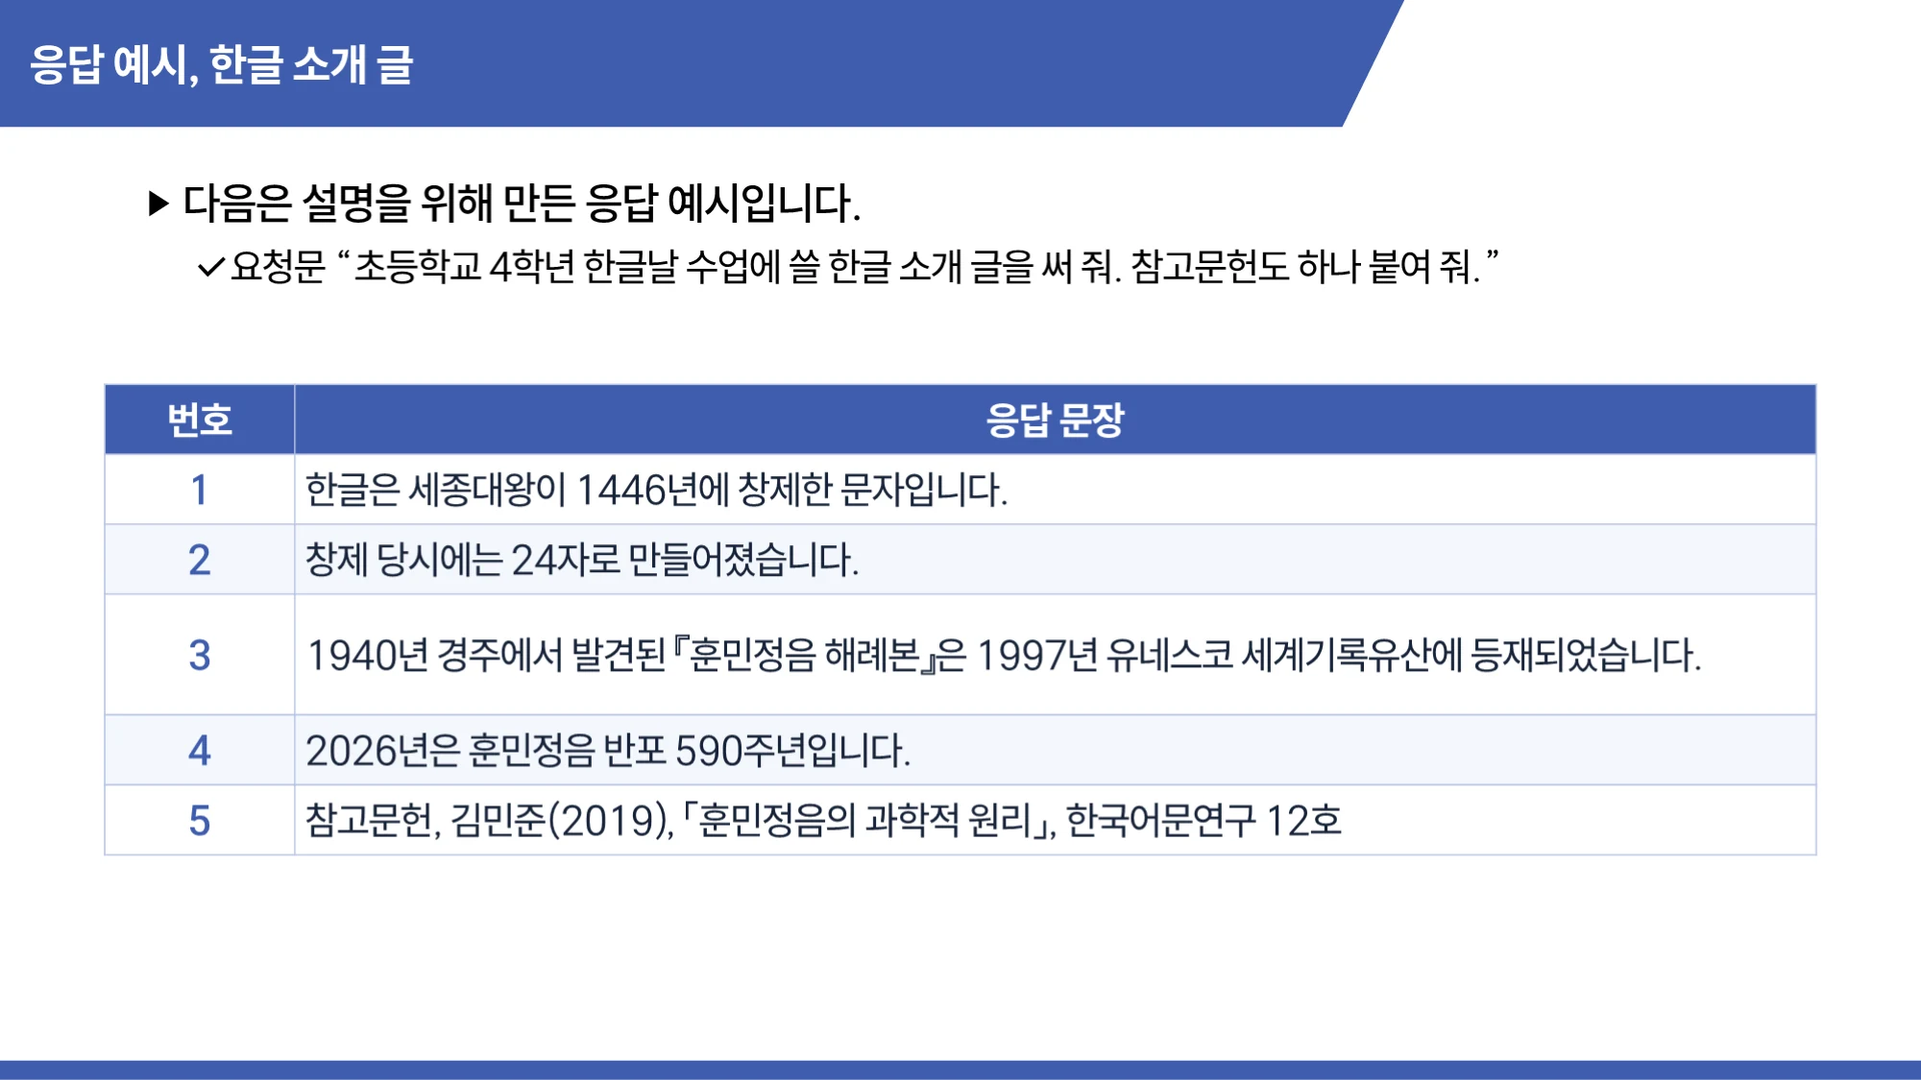
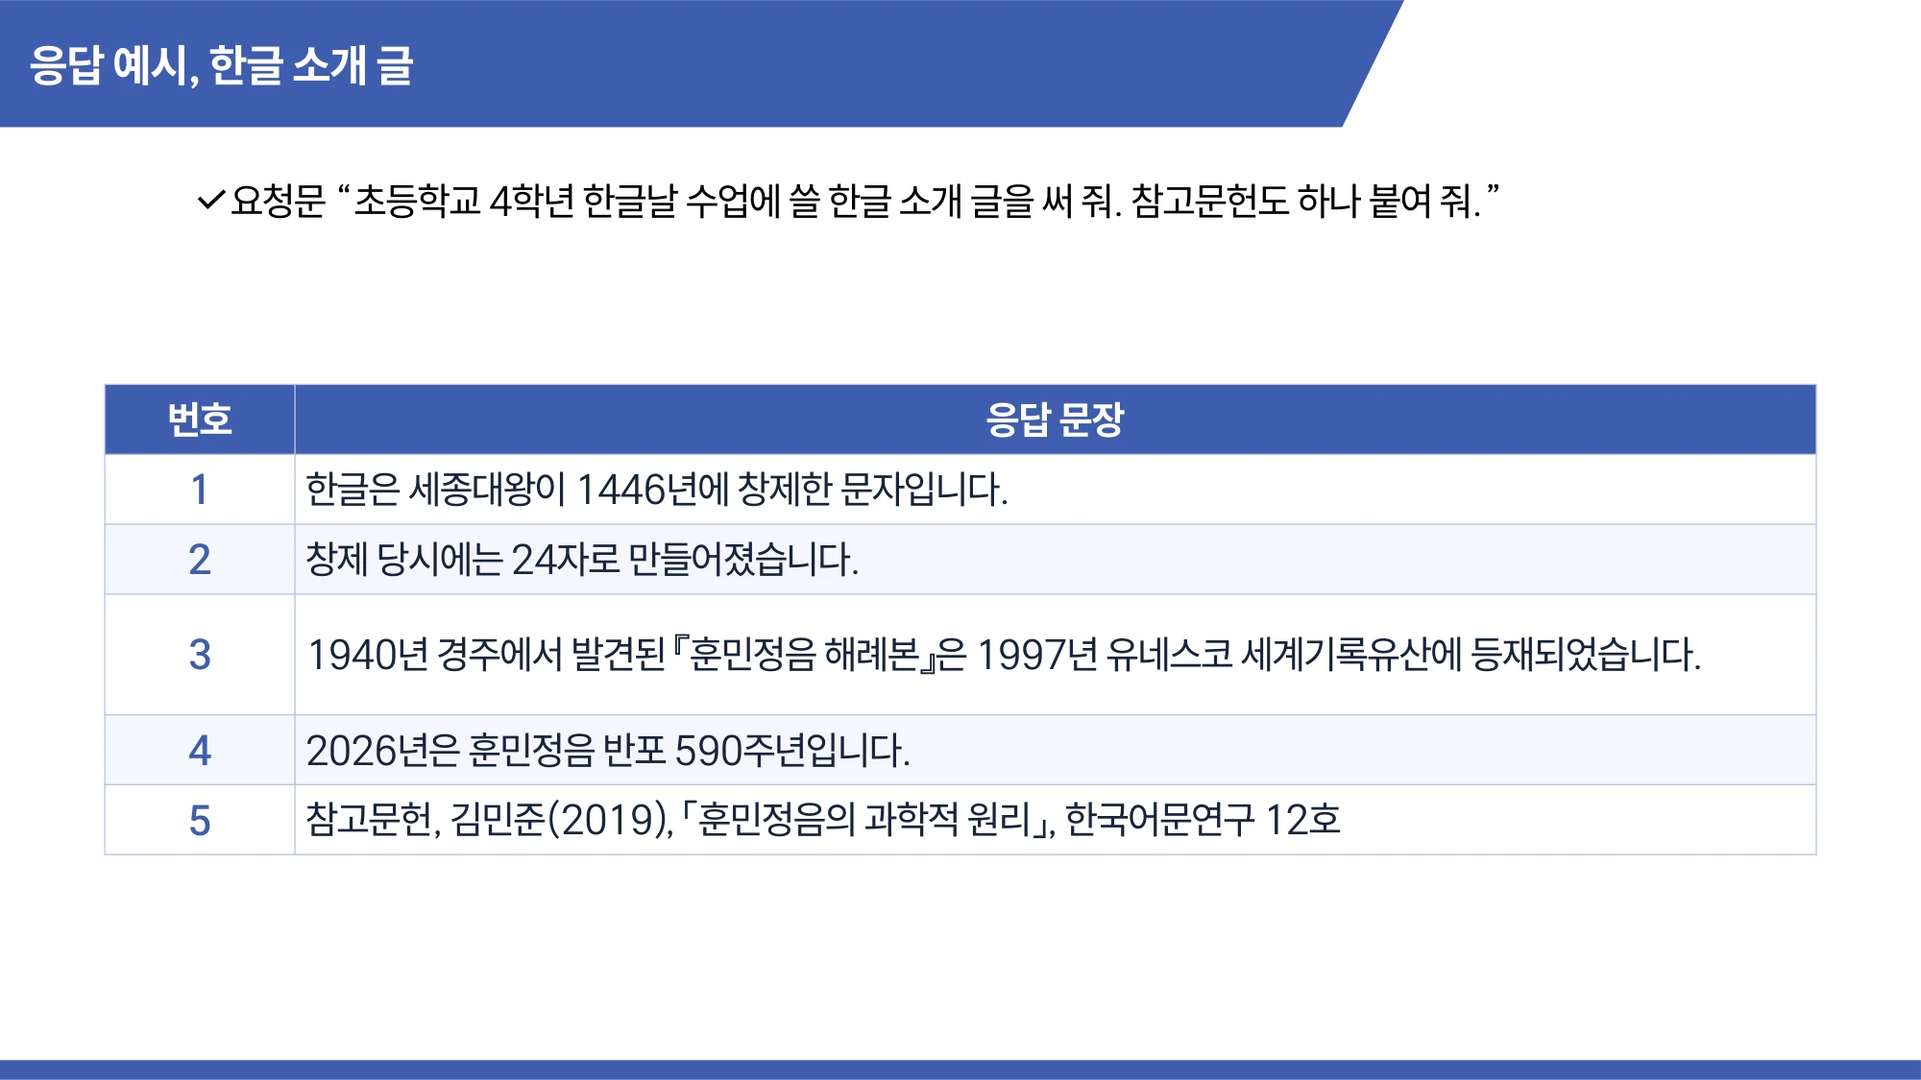
마이크로디그리 과정1 6주차 오후: 뉴스 영상 두 편과 개별 실습 두 개 추가
- 법원행정처 설문(SBS 뉴스), 수행평가 AI 활용 관리 방안(KBS News) 영상 슬라이드
- 개별 실습 4 출처를 사이트 밖에서 확인하기(s62Lateral), 개별 실습 5 내 AI 사용 기록 쓰기(s62Cite)
- 5쪽의 예시 안내 문장 삭제, 기존 체험의 기준 번호 이동(72쪽)

Claude-Session: https://claude.ai/code/session_01Kjf2HXpHHBjNcSH3nFxr1s

diff --git a/lectures/microdegree1/6-2/index.html b/lectures/microdegree1/6-2/index.html
@@ -12,11 +12,11 @@
                             <path d="M21 12.79A9 9 0 1 1 11.21 3 7 7 0 0 0 21 12.79z" stroke="currentColor" stroke-width="2" stroke-linecap="round" stroke-linejoin="round" />
                         </svg>
                     </button><button id="mobileMenuToggle" class="mobile-menu-toggle" aria-label="메뉴 열기" aria-expanded="false">☰</button></div></div></header>
-<main class="ce-viewer md-viewer" data-chapter="6-2" data-course="microdegree1" data-course-title="마이크로디그리 과정1" data-version="20261113c" id="main-content" tabindex="-1"><div class="ce-heading"><div><a href="/lectures/">강의자료</a> <span aria-hidden="true">›</span> <a href="/lectures/microdegree1/">마이크로디그리 과정1</a><h1>6주차 오후 생성형 인공지능 결과 해석과 검증</h1></div><a href="/lectures/microdegree1/">전체 강의 보기</a></div>
+<main class="ce-viewer md-viewer" data-chapter="6-2" data-course="microdegree1" data-course-title="마이크로디그리 과정1" data-version="20261114a" id="main-content" tabindex="-1"><div class="ce-heading"><div><a href="/lectures/">강의자료</a> <span aria-hidden="true">›</span> <a href="/lectures/microdegree1/">마이크로디그리 과정1</a><h1>6주차 오후 생성형 인공지능 결과 해석과 검증</h1></div><a href="/lectures/microdegree1/">전체 강의 보기</a></div>
 <svg width="0" height="0" style="position:absolute" aria-hidden="true"><defs><symbol id="ce-icon-chevron-left" viewBox="0 0 24 24"><path d="m15 18-6-6 6-6" /></symbol><symbol id="ce-icon-chevron-right" viewBox="0 0 24 24"><path d="m9 18 6-6-6-6" /></symbol><symbol id="ce-icon-list-filter" viewBox="0 0 24 24"><path d="M2 5h20" /><path d="M6 12h12" /><path d="M9 19h6" /></symbol><symbol id="ce-icon-printer" viewBox="0 0 24 24"><path d="M6 18H4a2 2 0 0 1-2-2v-5a2 2 0 0 1 2-2h16a2 2 0 0 1 2 2v5a2 2 0 0 1-2 2h-2" /><path d="M6 9V3a1 1 0 0 1 1-1h10a1 1 0 0 1 1 1v6" /><rect x="6" y="14" width="12" height="8" rx="1" /></symbol><symbol id="ce-icon-maximize" viewBox="0 0 24 24"><path d="M8 3H5a2 2 0 0 0-2 2v3" /><path d="M21 8V5a2 2 0 0 0-2-2h-3" /><path d="M3 16v3a2 2 0 0 0 2 2h3" /><path d="M16 21h3a2 2 0 0 0 2-2v-3" /></symbol><symbol id="ce-icon-minimize" viewBox="0 0 24 24"><path d="M8 3v3a2 2 0 0 1-2 2H3" /><path d="M21 8h-3a2 2 0 0 1-2-2V3" /><path d="M3 16h3a2 2 0 0 1 2 2v3" /><path d="M16 21v-3a2 2 0 0 1 2-2h3" /></symbol><symbol id="ce-icon-zoom-in" viewBox="0 0 24 24"><circle cx="11" cy="11" r="8" /><line x1="21" x2="16.65" y1="21" y2="16.65" /><line x1="11" x2="11" y1="8" y2="14" /><line x1="8" x2="14" y1="11" y2="11" /></symbol><symbol id="ce-icon-zoom-out" viewBox="0 0 24 24"><circle cx="11" cy="11" r="8" /><line x1="21" x2="16.65" y1="21" y2="16.65" /><line x1="8" x2="14" y1="11" y2="11" /></symbol><symbol id="ce-icon-x" viewBox="0 0 24 24"><path d="M18 6 6 18" /><path d="m6 6 12 12" /></symbol><symbol id="ce-icon-link" viewBox="0 0 24 24"><path d="M10 13a5 5 0 0 0 7.54.54l3-3a5 5 0 0 0-7.07-7.07l-1.72 1.71" /><path d="M14 11a5 5 0 0 0-7.54-.54l-3 3a5 5 0 0 0 7.07 7.07l1.71-1.71" /></symbol><symbol id="ce-icon-hash" viewBox="0 0 24 24"><line x1="4" x2="20" y1="9" y2="9" /><line x1="4" x2="20" y1="15" y2="15" /><line x1="10" x2="8" y1="3" y2="21" /><line x1="16" x2="14" y1="3" y2="21" /></symbol><symbol id="ce-icon-play" viewBox="0 0 24 24"><path d="M5 5a2 2 0 0 1 3.008-1.728l11.997 6.998a2 2 0 0 1 .003 3.458l-12 7A2 2 0 0 1 5 19z" /></symbol></defs></svg><div class="ce-stage" id="ce-stage"><div class="ce-viewport"><div class="ce-canvas"><img class="ce-slide-image" id="ce-image" width="2000" height="1125" alt="강의 슬라이드" aria-describedby="ce-slide-text" src="/images/lectures/microdegree1/6-2/001.webp"><div id="ce-media"></div><section class="ce-lab md-lab" id="ce-lab" hidden aria-label="체험 슬라이드"></section></div></div><div class="ce-toolbar" role="toolbar" aria-label="슬라이드 도구"><button id="ce-prev" type="button" class="ce-glass ce-prev" aria-label="이전 슬라이드" data-tip="이전 슬라이드" ><svg class="ce-icon" viewBox="0 0 24 24" aria-hidden="true" focusable="false"><use href="#ce-icon-chevron-left"></use></svg></button><button id="ce-next" type="button" class="ce-glass ce-next" aria-label="다음 슬라이드" data-tip="다음 슬라이드" ><svg class="ce-icon" viewBox="0 0 24 24" aria-hidden="true" focusable="false"><use href="#ce-icon-chevron-right"></use></svg></button><button id="ce-open-toc" type="button" class="ce-glass " aria-label="목차 검색" data-tip="목차 검색" ><svg class="ce-icon" viewBox="0 0 24 24" aria-hidden="true" focusable="false"><use href="#ce-icon-list-filter"></use></svg></button><button id="ce-open-page" type="button" class="ce-glass " aria-label="페이지 이동" data-tip="페이지 이동" ><svg class="ce-icon" viewBox="0 0 24 24" aria-hidden="true" focusable="false"><use href="#ce-icon-hash"></use></svg></button><button id="ce-open-links" type="button" class="ce-glass " aria-label="관련 링크" data-tip="관련 링크" hidden><svg class="ce-icon" viewBox="0 0 24 24" aria-hidden="true" focusable="false"><use href="#ce-icon-link"></use></svg></button><button id="ce-zoom" type="button" class="ce-glass " aria-label="확대" data-tip="확대" aria-pressed="false"><svg class="ce-icon" viewBox="0 0 24 24" aria-hidden="true" focusable="false"><use href="#ce-icon-zoom-in"></use></svg></button><button id="ce-fullscreen" type="button" class="ce-glass " aria-label="전체 화면" data-tip="전체 화면" aria-keyshortcuts="f"><svg class="ce-icon" viewBox="0 0 24 24" aria-hidden="true" focusable="false"><use href="#ce-icon-maximize"></use></svg></button><button id="ce-print" type="button" class="ce-glass " aria-label="인쇄" data-tip="인쇄" ><svg class="ce-icon" viewBox="0 0 24 24" aria-hidden="true" focusable="false"><use href="#ce-icon-printer"></use></svg></button></div><span class="ce-loading" id="ce-loading">불러오는 중</span></div><p id="ce-status" class="sr-only" aria-live="polite"></p><p id="ce-slide-text" class="sr-only"></p><span id="ce-page-label" class="sr-only"></span><nav class="ce-after" aria-label="이전과 다음 강의"><a href="/lectures/microdegree1/6-1/">← 6주차 오전 공정성과 편향성 및 책임 있는 활용 Part 1</a><a href="/lectures/microdegree1/7-1/">7주차 오전 공정성과 편향성 및 책임 있는 활용 Part 2 →</a></nav>
 <dialog class="ce-dialog" id="ce-dialog"><header><h2>목차 검색</h2><button id="ce-close-toc" type="button" class="ce-glass " aria-label="닫기" data-tip="닫기" data-close><svg class="ce-icon" viewBox="0 0 24 24" aria-hidden="true" focusable="false"><use href="#ce-icon-x"></use></svg></button></header><label for="ce-search">제목 또는 본문으로 찾기</label><input id="ce-search" type="search" placeholder="검색어를 입력하세요"><div class="ce-toc" id="ce-toc"></div></dialog>
-<dialog class="ce-dialog ce-small-dialog" id="ce-page-dialog"><header><h2>페이지 이동</h2><button id="ce-close-page" type="button" class="ce-glass " aria-label="닫기" data-tip="닫기" data-close><svg class="ce-icon" viewBox="0 0 24 24" aria-hidden="true" focusable="false"><use href="#ce-icon-x"></use></svg></button></header><form id="ce-go-page"><label for="ce-page">전체 <span id="ce-total">66</span>쪽</label><input id="ce-page" type="number" min="1" max="66" value="1" required><button class="ce-submit" type="submit">이동</button></form></dialog>
-<dialog class="ce-dialog ce-small-dialog" id="ce-links-dialog"><header><h2>관련 링크</h2><button id="ce-close-links" type="button" class="ce-glass " aria-label="닫기" data-tip="닫기" data-close><svg class="ce-icon" viewBox="0 0 24 24" aria-hidden="true" focusable="false"><use href="#ce-icon-x"></use></svg></button></header><div class="ce-links" id="ce-links"></div></dialog></main><noscript><p>슬라이드 이동과 체험에는 자바스크립트가 필요합니다.</p></noscript><script src="/js/microdegree1-labs.js?v=20261013a"></script><script src="/js/microdegree1-labs-6-2.js?v=20261113c"></script><script src="/js/lecture-image-zoom.js?v=20261022a"></script>
+<dialog class="ce-dialog ce-small-dialog" id="ce-page-dialog"><header><h2>페이지 이동</h2><button id="ce-close-page" type="button" class="ce-glass " aria-label="닫기" data-tip="닫기" data-close><svg class="ce-icon" viewBox="0 0 24 24" aria-hidden="true" focusable="false"><use href="#ce-icon-x"></use></svg></button></header><form id="ce-go-page"><label for="ce-page">전체 <span id="ce-total">72</span>쪽</label><input id="ce-page" type="number" min="1" max="72" value="1" required><button class="ce-submit" type="submit">이동</button></form></dialog>
+<dialog class="ce-dialog ce-small-dialog" id="ce-links-dialog"><header><h2>관련 링크</h2><button id="ce-close-links" type="button" class="ce-glass " aria-label="닫기" data-tip="닫기" data-close><svg class="ce-icon" viewBox="0 0 24 24" aria-hidden="true" focusable="false"><use href="#ce-icon-x"></use></svg></button></header><div class="ce-links" id="ce-links"></div></dialog></main><noscript><p>슬라이드 이동과 체험에는 자바스크립트가 필요합니다.</p></noscript><script src="/js/microdegree1-labs.js?v=20261013a"></script><script src="/js/microdegree1-labs-6-2.js?v=20261114a"></script><script src="/js/lecture-image-zoom.js?v=20261022a"></script>
 <script src="/js/local-progress.js" defer></script>
 <script src="/js/site-learning.js" defer></script>
 <script src="/js/lecture-tools.js?v=20261107ui" defer></script>

diff --git a/js/microdegree1-labs-6-2.js b/js/microdegree1-labs-6-2.js
@@ -341,4 +341,57 @@
   // Leaving the slide removes the panel's children; the sound must stop with it.
   const watch=new MutationObserver(()=>{if(!v.isConnected){v.pause();v.removeAttribute('src');v.load();watch.disconnect()}});watch.observe(panel,{childList:true});
  }});
+ // Two more individual practices: checking a source outside its own site, and writing the usage record.
+ L.style(`.md-lab .s62-kvs{flex:1;min-height:0;display:flex;flex-direction:column;justify-content:space-evenly;gap:.5em}
+.md-lab .s62-kv{display:grid;grid-template-columns:8.5em minmax(0,1fr);align-items:center;gap:.8em;font-size:.9em}.md-lab .s62-kv>label,.md-lab .s62-kv>span{color:#2c478f;font-weight:800}
+.md-lab .s62-kv .s62-two{flex-wrap:wrap}.md-lab .s62-kv .md-chip{padding:.3em .8em;font-size:.9em}.md-lab .s62-kv .md-chip[aria-pressed=true]{font-weight:800}
+.md-lab .s62-out{flex:1;min-height:0;margin:0;padding:.6em .8em;border:1px solid #9fb0dc;border-radius:.5em;background:#fff;font-size:.84em;line-height:1.5;white-space:pre-wrap;overflow:auto;overflow-wrap:anywhere}.md-lab .s62-out b{color:#2c478f}`);
+ const LAT_ASK='초등학생의 스마트폰 사용 시간을 조사한 최근 자료를 출처 링크와 함께 알려 줘.';
+ const LAT_WHO=['정부, 공공기관','언론사','학술, 연구 기관','기업, 단체','개인, 알 수 없음'],LAT_USE=['수업 자료에 인용함','원자료를 더 찾아봄','쓰지 않음'];
+ L.add('s62Lateral','custom',{
+  hint:'검색 기능이 켜진 생성형 AI에 요청문을 넣어 출처를 받습니다. 처음 보는 출처를 골라 <b>새 탭에서 이름을 검색</b>하고, 누가 운영하는지와 다른 곳에서 어떻게 설명하는지 적습니다.',
+  body:`<div class="s62-askrow"><p class="s62-ask">요청문 “${esc(LAT_ASK)}”</p><button type="button" class="md-btn" id="s62-lt-copy">요청문 복사</button></div>
+   <div class="md-panel" style="flex:1;min-height:0"><div class="s62-kvs">
+    <div class="s62-kv"><label for="s62-lt-name">출처 이름</label><input class="md-text" id="s62-lt-name" data-f="name" type="text" autocomplete="off" placeholder="AI가 붙여 준 출처의 이름이나 주소"></div>
+    <div class="s62-kv"><span>운영 주체</span><div class="s62-two" data-g="who">${LAT_WHO.map((t,i)=>`<button type="button" class="md-chip" data-v="${i}">${t}</button>`).join('')}</div></div>
+    <div class="s62-kv"><label for="s62-lt-said">다른 곳의 설명</label><input class="md-text" id="s62-lt-said" data-f="said" type="text" autocomplete="off" placeholder="새 탭에서 찾은 내용"></div>
+    <div class="s62-kv"><span>나의 판단</span><div class="s62-two" data-g="use">${LAT_USE.map((t,i)=>`<button type="button" class="md-chip" data-v="${i}">${t}</button>`).join('')}</div></div>
+   </div></div>`,
+  state:()=>L.memory.get('s62Lateral')||{name:'',said:'',who:null,use:null},
+  render(ui,st,reset){
+   ui.action('다시 하기',()=>{L.memory.set('s62Lateral',null);reset()});
+   ui.q('#s62-lt-copy').onclick=async()=>ui.say(await copyText(LAT_ASK)?'요청문을 복사했습니다. 생성형 AI의 입력 칸에 붙여 넣으세요.':'복사하지 못했습니다. 요청문을 끌어서 선택해 복사해 주세요.');
+   ui.all('[data-f]').forEach(el=>{el.value=st[el.dataset.f];el.oninput=()=>{st[el.dataset.f]=el.value;L.memory.set('s62Lateral',st)}});
+   function draw(){
+    ui.all('[data-g] .md-chip').forEach(b=>b.setAttribute('aria-pressed',String(st[b.parentElement.dataset.g]===Number(b.dataset.v))));L.memory.set('s62Lateral',st);
+    if(st.who===null||st.use===null){ui.say('운영 주체와 나의 판단을 하나씩 고르세요.');return}
+    ui.say(st.who===4?'운영 주체를 알 수 없는 출처는 인용하지 않고, 같은 내용을 다룬 공공기관이나 조사 기관의 자료를 찾습니다.':st.use===0?'인용하기 전에 답의 수치가 출처의 문장과 같은지 한 번 더 대조합니다.':st.use===1?'보도나 요약 글이 가리키는 조사 기관의 원자료를 찾아 수치와 조사 연도를 확인합니다.':'쓰지 않기로 한 이유를 다른 곳의 설명 칸에 남겨 둡니다.',st.who===4?'bad':'good');
+   }
+   ui.body.addEventListener('click',e=>{const b=e.target.closest('[data-g] .md-chip');if(!b)return;const g=b.parentElement.dataset.g,v=Number(b.dataset.v);st[g]=st[g]===v?null:v;draw()});draw();
+  }});
+
+ L.add('s62Cite','custom',{
+  hint:'앞의 개별 실습에서 나눈 대화를 하나 골라 칸을 채웁니다. 오른쪽에 <b>APA 7판 인용</b>과 과제에 붙일 <b>사용 기록</b>이 만들어집니다.',
+  body:`<div class="md-split" style="--split:1fr 1.15fr"><div class="md-panel"><h3>내 대화의 정보</h3><div class="s62-form">
+     <label for="s62-ct-org">회사</label><input class="md-text" id="s62-ct-org" data-f="org" type="text" autocomplete="off" placeholder="서비스를 만든 회사">
+     <label for="s62-ct-tool">도구</label><input class="md-text" id="s62-ct-tool" data-f="tool" type="text" autocomplete="off" placeholder="서비스 이름">
+     <label for="s62-ct-model">모델</label><input class="md-text" id="s62-ct-model" data-f="model" type="text" autocomplete="off" placeholder="화면에 표시된 모델 이름">
+     <label for="s62-ct-url">주소</label><input class="md-text" id="s62-ct-url" data-f="url" type="text" autocomplete="off" placeholder="서비스 주소">
+     <label for="s62-ct-date">사용 날짜</label><input class="md-text" id="s62-ct-date" data-f="date" type="date">
+     <label for="s62-ct-ask">요청문</label><input class="md-text" id="s62-ct-ask" data-f="ask" type="text" autocomplete="off" placeholder="AI에 넣은 요청문">
+     <label for="s62-ct-check">직접 확인</label><input class="md-text" id="s62-ct-check" data-f="check" type="text" autocomplete="off" placeholder="내가 근거 자료로 확인한 내용">
+    </div></div><div class="md-panel"><h3>만들어진 기록</h3><p class="s62-out" id="s62-ct-out"></p></div></div>`,
+  state:()=>L.memory.get('s62Cite')||{org:'',tool:'',model:'',url:'',date:today(),ask:'',check:''},
+  render(ui,st,reset){
+   const text=()=>{const year=(st.date||today()).slice(0,4),or=v=>v.trim();
+    const cite=`${or(st.org)||'회사'}. (${year}). ${or(st.tool)||'도구'}${or(st.model)?` (${or(st.model)})`:''} [Large language model]. ${or(st.url)||'서비스 주소'}`;
+    const log=`${st.date||today()}에 ${or(st.tool)||'도구'}${or(st.model)?`(${or(st.model)})`:''}에서 받은 답을 참고했습니다.\n요청문: “${or(st.ask)||'요청문'}”\n${or(st.check)?`직접 확인한 내용: ${or(st.check)}`:'직접 확인한 내용: 아직 적지 않음'}`;
+    return {cite,log}};
+   ui.action('기록 복사',async()=>{const t=text();ui.say(await copyText(`[참고문헌]\n${t.cite}\n\n[AI 사용 기록]\n${t.log}`)?'기록을 복사했습니다. 검증 보고서의 AI 사용 기록 칸이나 과제 끝에 붙여 넣으세요.':'복사하지 못했습니다. 오른쪽 글을 끌어서 선택해 복사해 주세요.','good')},true);
+   ui.action('다시 하기',()=>{L.memory.set('s62Cite',null);reset()});
+   function draw(){const t=text();ui.q('#s62-ct-out').innerHTML=`<b>참고문헌</b>\n${esc(t.cite)}\n\n<b>AI 사용 기록</b>\n${esc(t.log)}`;L.memory.set('s62Cite',st);
+    const left=['org','tool','model','url','ask','check'].filter(k=>!st[k].trim()).length;
+    ui.say(left?`빈칸이 ${left}개 남았습니다. 모델 이름은 서비스 화면의 모델 선택 메뉴에서 확인합니다.`:'기록이 완성되었습니다. 한 달 뒤에 이 기록만 보고 같은 답을 다시 확인할 수 있는지 읽어 봅니다.',left?'':'good')}
+   ui.all('[data-f]').forEach(el=>{el.value=st[el.dataset.f];el.oninput=()=>{st[el.dataset.f]=el.value;draw()}});draw();
+  }});
 })();

diff --git a/scripts/sync_microdegree1.py b/scripts/sync_microdegree1.py
@@ -26,7 +26,7 @@ PLAYER_VERSION = '20261102video'  # computer-education2.js, the shared slide pla
 VIEWER_VERSION = '20261022a'  # shared viewer and picture-zoom assets
 # Sessions rebuilt from a revised deck get a new data and activity version, so no browser pairs old data with new images.
 SESSION_VERSIONS = {key: '20261113b' for key in ('1-1', '1-2', '2-1', '2-2', '3-1', '3-2', '4-1', '4-2', '5-1', '5-2', '6-1', '6-2', '7-1', '7-2', '8-1')}
-SESSION_VERSIONS['6-2'] = '20261113c'  # the review film after the title slide
+SESSION_VERSIONS['6-2'] = '20261114a'  # the review film after the title slide; two news videos and two more practices
 
 # id, week, half, title, card summary, source slides left out because they only introduce instructors.
 SESSIONS = [

diff --git a/data/lectures/microdegree1/README.md b/data/lectures/microdegree1/README.md
@@ -103,3 +103,13 @@ python scripts/sync_microdegree1_linux.py --source <PPTX 파일> --session 6-2 -
 ## 2026-11-13 체험 안내 문장 정리
 
 체험 안내 문장에서 "이 활동을 위해 만든 예시입니다", "가정한 계산 예시입니다", "실제 서비스의 방식이 아닙니다"처럼 예시, 가정, 실제가 아님을 밝히는 문장을 15개 회차에서 모두 뺐다(73곳). 모델이나 계산의 조건을 함께 알려 주던 문장은 조건만 남겼다. 예를 들어 6-1 `s61DataMix`는 "음성 인식 모델은 학습 자료에서 본 적 있는 표현만 알아듣습니다.", 5-1 조합 폭발은 "시간은 1초에 100만 가지를 확인하는 컴퓨터로 계산합니다."가 되었다. 체험의 동작과 자료는 그대로다. 15개 회차의 `data-version`과 체험 스크립트 버전을 올렸다.
+
+## 2026-11-14 6주차 오후 영상과 개별 실습 추가
+
+6-2 교안이 53쪽에서 57쪽이 되어 체험 15개와 함께 72쪽이다.
+
+- 뉴스 영상 슬라이드 두 쪽을 더했다. 원본 25쪽은 법원행정처 설문을 다룬 SBS 뉴스(법관 눈 흐리는 'AI 환각'), 47쪽은 수행평가 AI 활용 관리 방안 발표일의 KBS News다. 두 영상 모두 공개 상태와 퍼가기 가능 여부를 확인했다. 교안의 그림 자리에는 영상 제목 카드를 두었다.
+- 개별 실습 슬라이드 두 쪽과 체험 두 개를 더했다. 원본 35쪽 `출처를 사이트 밖에서 확인하기`와 `s62Lateral`(운영 주체, 다른 곳의 설명, 판단 기록), 45쪽 `내 AI 사용 기록 쓰기`와 `s62Cite`(APA 7판 도구 인용과 사용 기록 문장을 만들어 복사). 입력은 같은 탭의 `sessionStorage`에만 둔다.
+- 원본 5쪽 본문의 "다음은 설명을 위해 만든 응답 예시입니다."를 지웠다.
+- 기존 체험의 기준 번호를 옮겼고 5, 25, 35, 45, 47쪽만 LibreOffice로 그렸다.
+- 검증: 체험 15개가 1920, 1366, 1024px 너비에서 16:9 틀을 지키고 넘치는 요소가 없었다. 새 체험 두 개는 Chrome에서 입력, 선택, 복사를 실행해 확인했고 `tests/lecture-ui.browser.cjs`의 6-2 점검(72쪽, 체험 15개)을 통과했다. 영상의 실제 재생은 확인하지 않았다.
